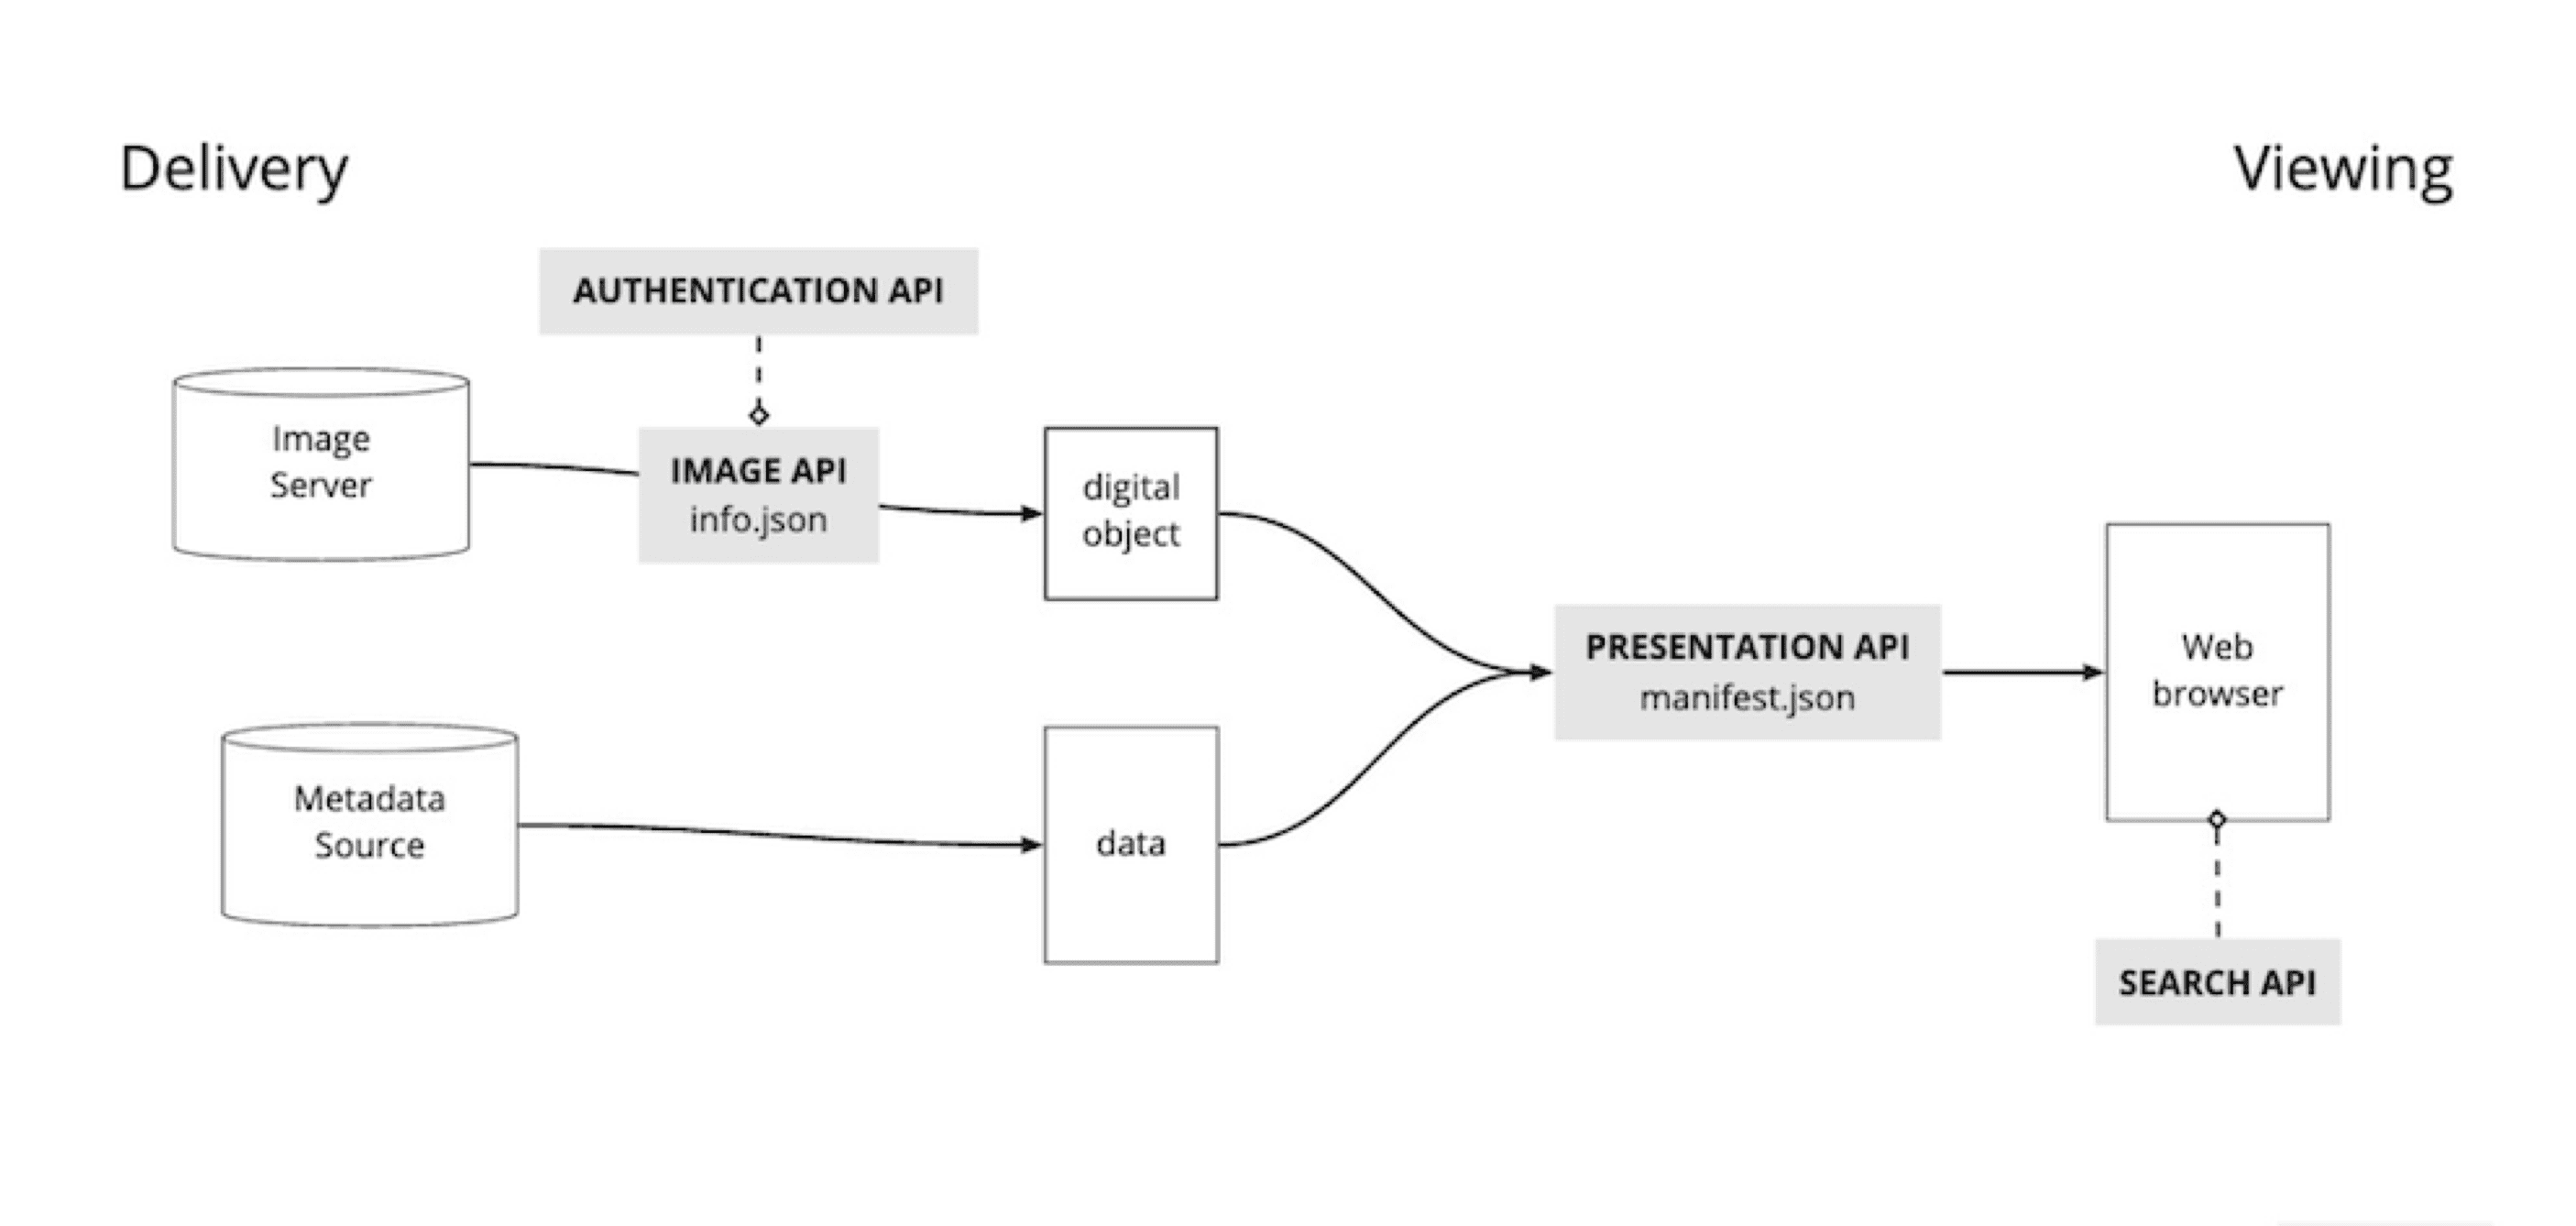
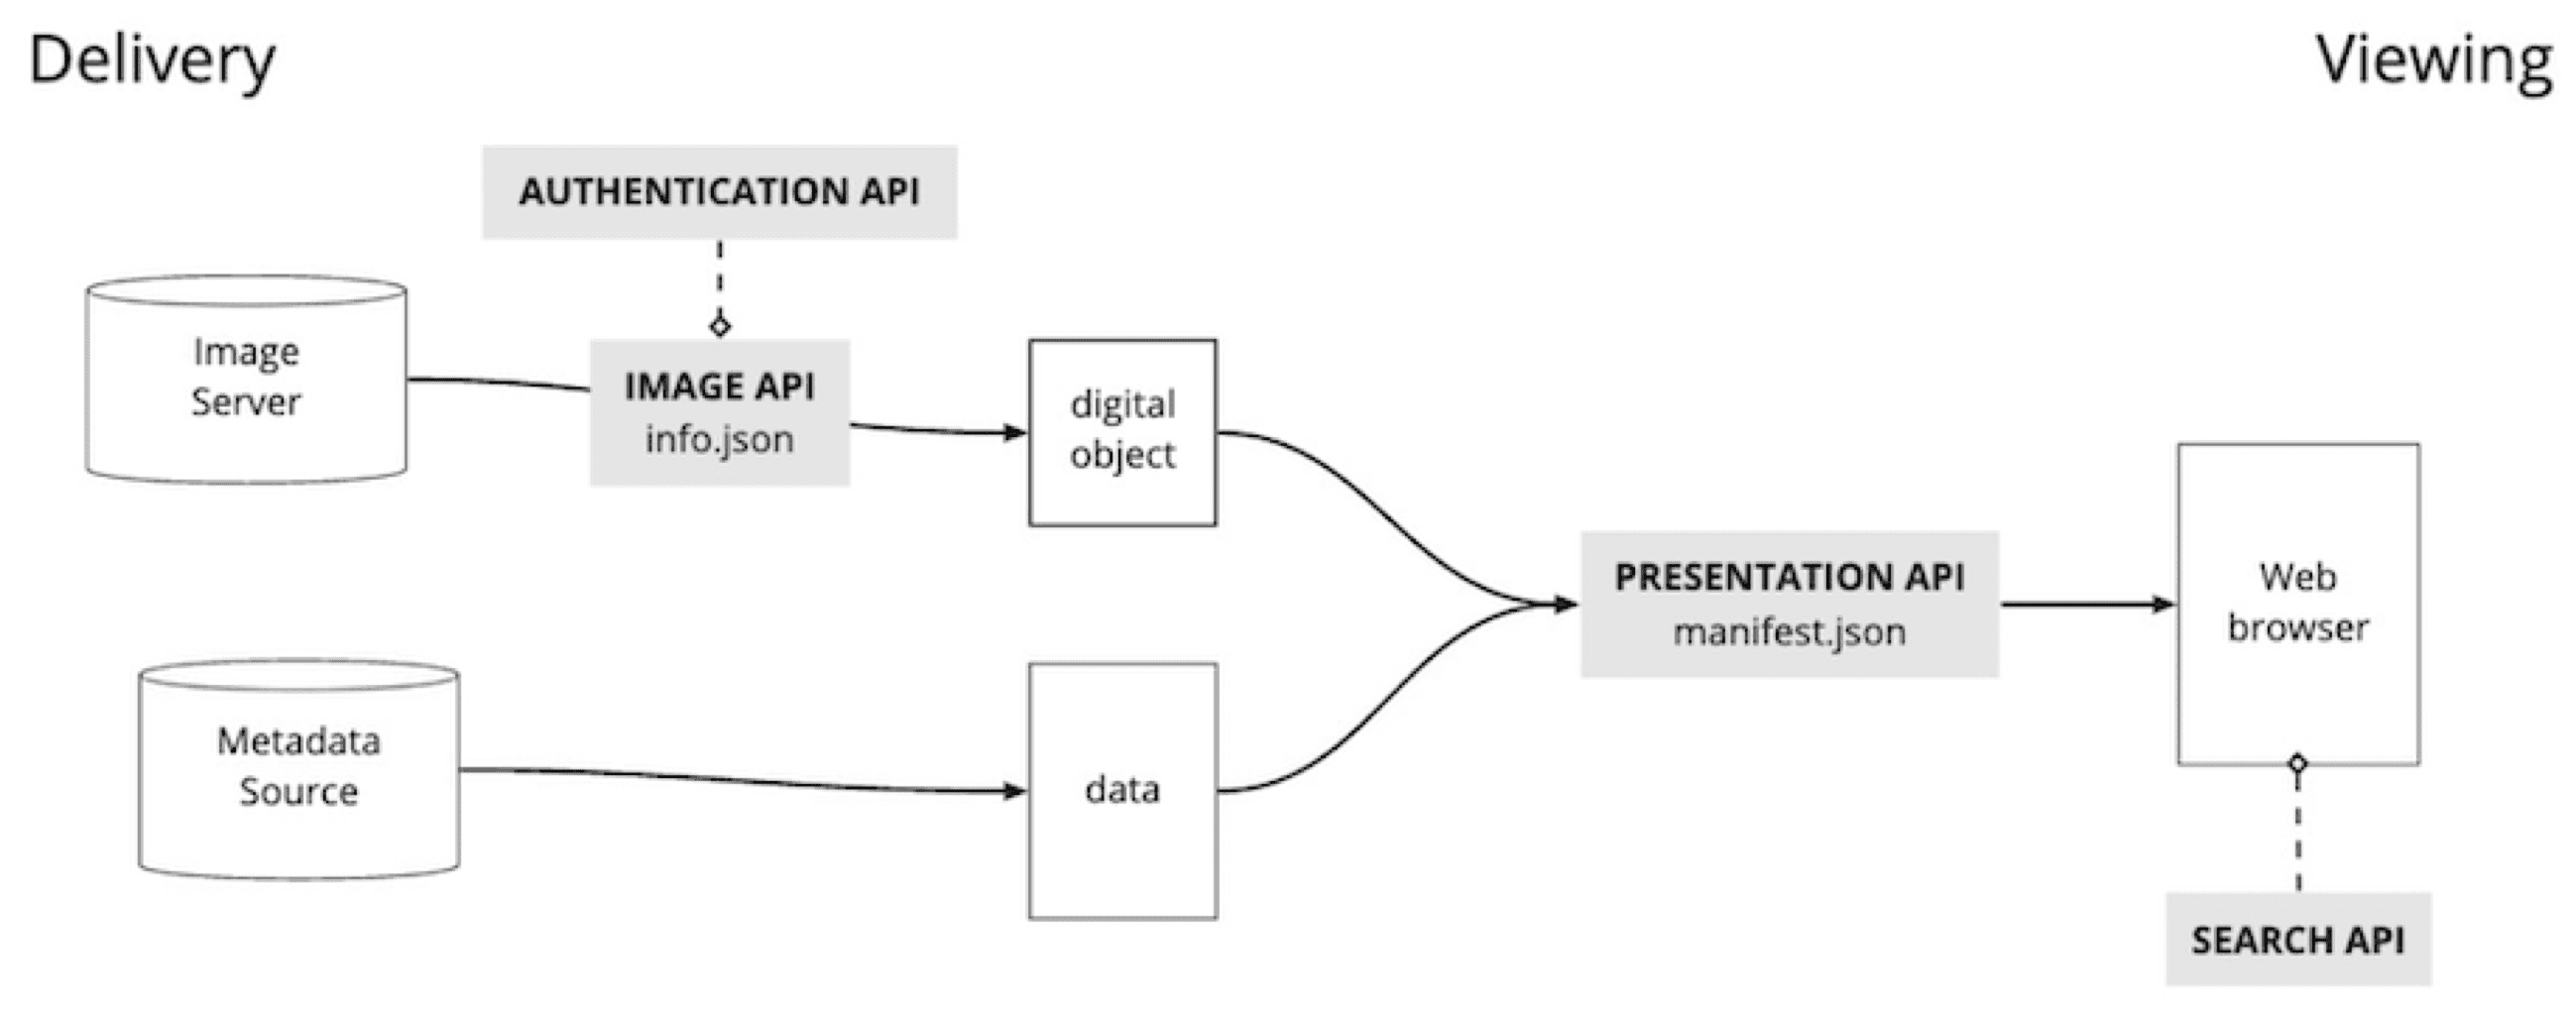
new iiif API diagram

diff --git a/talks/2026-prehst-iiif/pres/index.html b/talks/2026-prehst-iiif/pres/index.html
@@ -334,9 +334,9 @@ Communautés d’utilisateurs et de développeurs issues des musées, bibliothè
 </div>
 <div id="tabset-2-2">
 <center>
-<p><img src="https://raw.githubusercontent.com/iramat/iramat-dev/master/img/iiif-apis.png" style="width: 750px;vertical-align: middle;"></p>
+<p><img src="https://raw.githubusercontent.com/iramat/iramat-dev/master/img/iiif-apis.png" style="width: 950px;vertical-align: middle;"></p>
 <div class="captiontext">
-<em>A diagram of how the core IIIF APIs work together.</em> <a href="https://iiif.io/get-started/how-iiif-works/" class="uri">https://iiif.io/get-started/how-iiif-works/</a>
+<em>A diagram of how the core IIIF APIs work together.</em>, source: <a href="https://iiif.io/get-started/how-iiif-works/" class="uri">https://iiif.io/get-started/how-iiif-works/</a>
 </div>
 </center>
 </div>
@@ -648,7 +648,7 @@ click IIIFannot "https://github.com/iramat/iramat-dev/main/talks/2026-bsc/README
     </div>
   <div class="quarto-auto-generated-content" style="display: none;">
 <div class="footer footer-default">
-<p>T. Huet - <img src="https://raw.githubusercontent.com/zoometh/thomashuet/master/img/inst-cnrs-iramat.png" style="height: 15px;vertical-align: middle;"> - 22 avril 2026, Laboratoire Études sur les Sciences et les Techniques, Orsay</p>
+<p><span style="font-size:12pt"> T. Huet - <img src="https://raw.githubusercontent.com/zoometh/thomashuet/master/img/inst-cnrs-iramat.png" style="height: 15px;vertical-align: middle;"> - 22 avril 2026, Laboratoire Études sur les Sciences et les Techniques, Orsay </span></p>
 </div>
 </div></div>
 